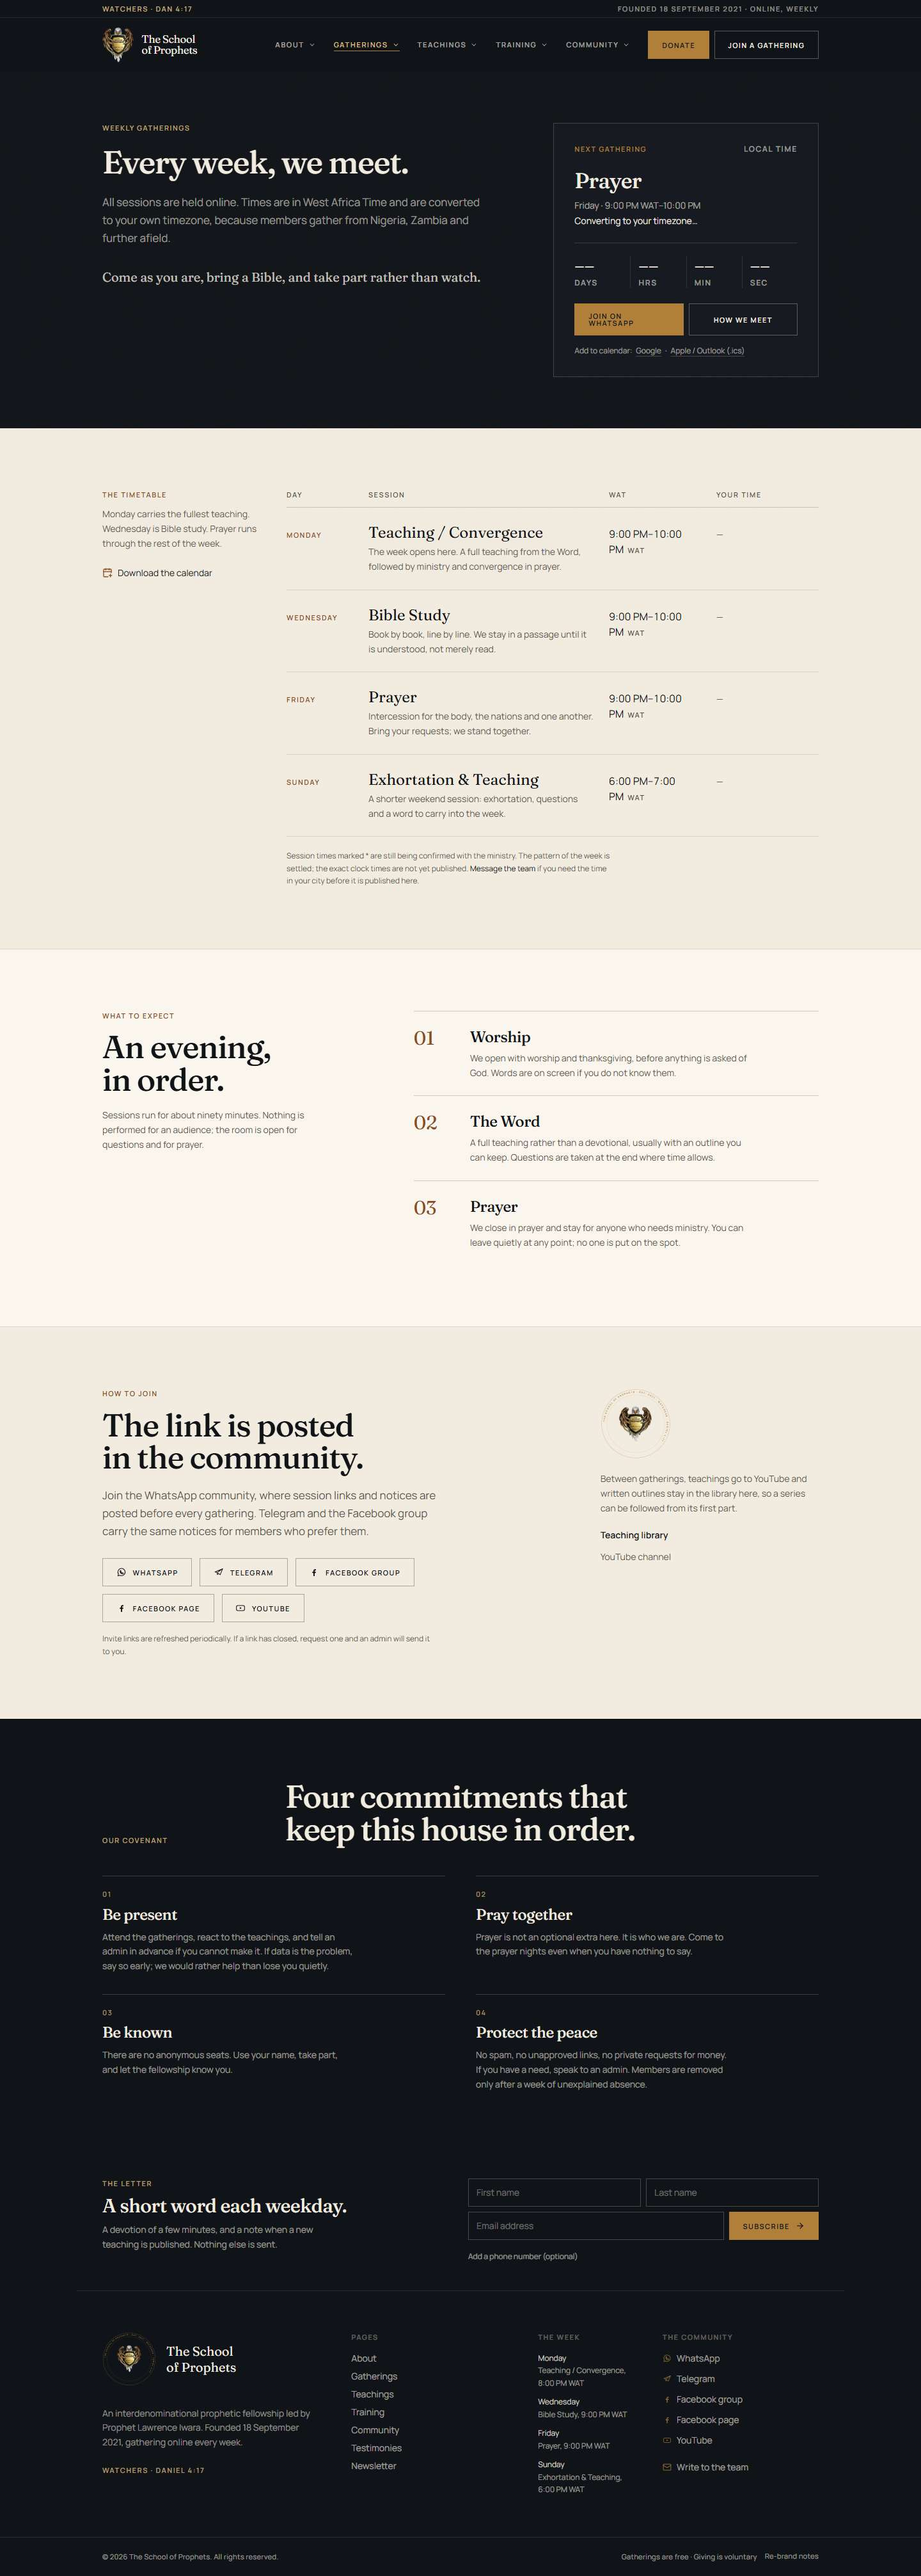
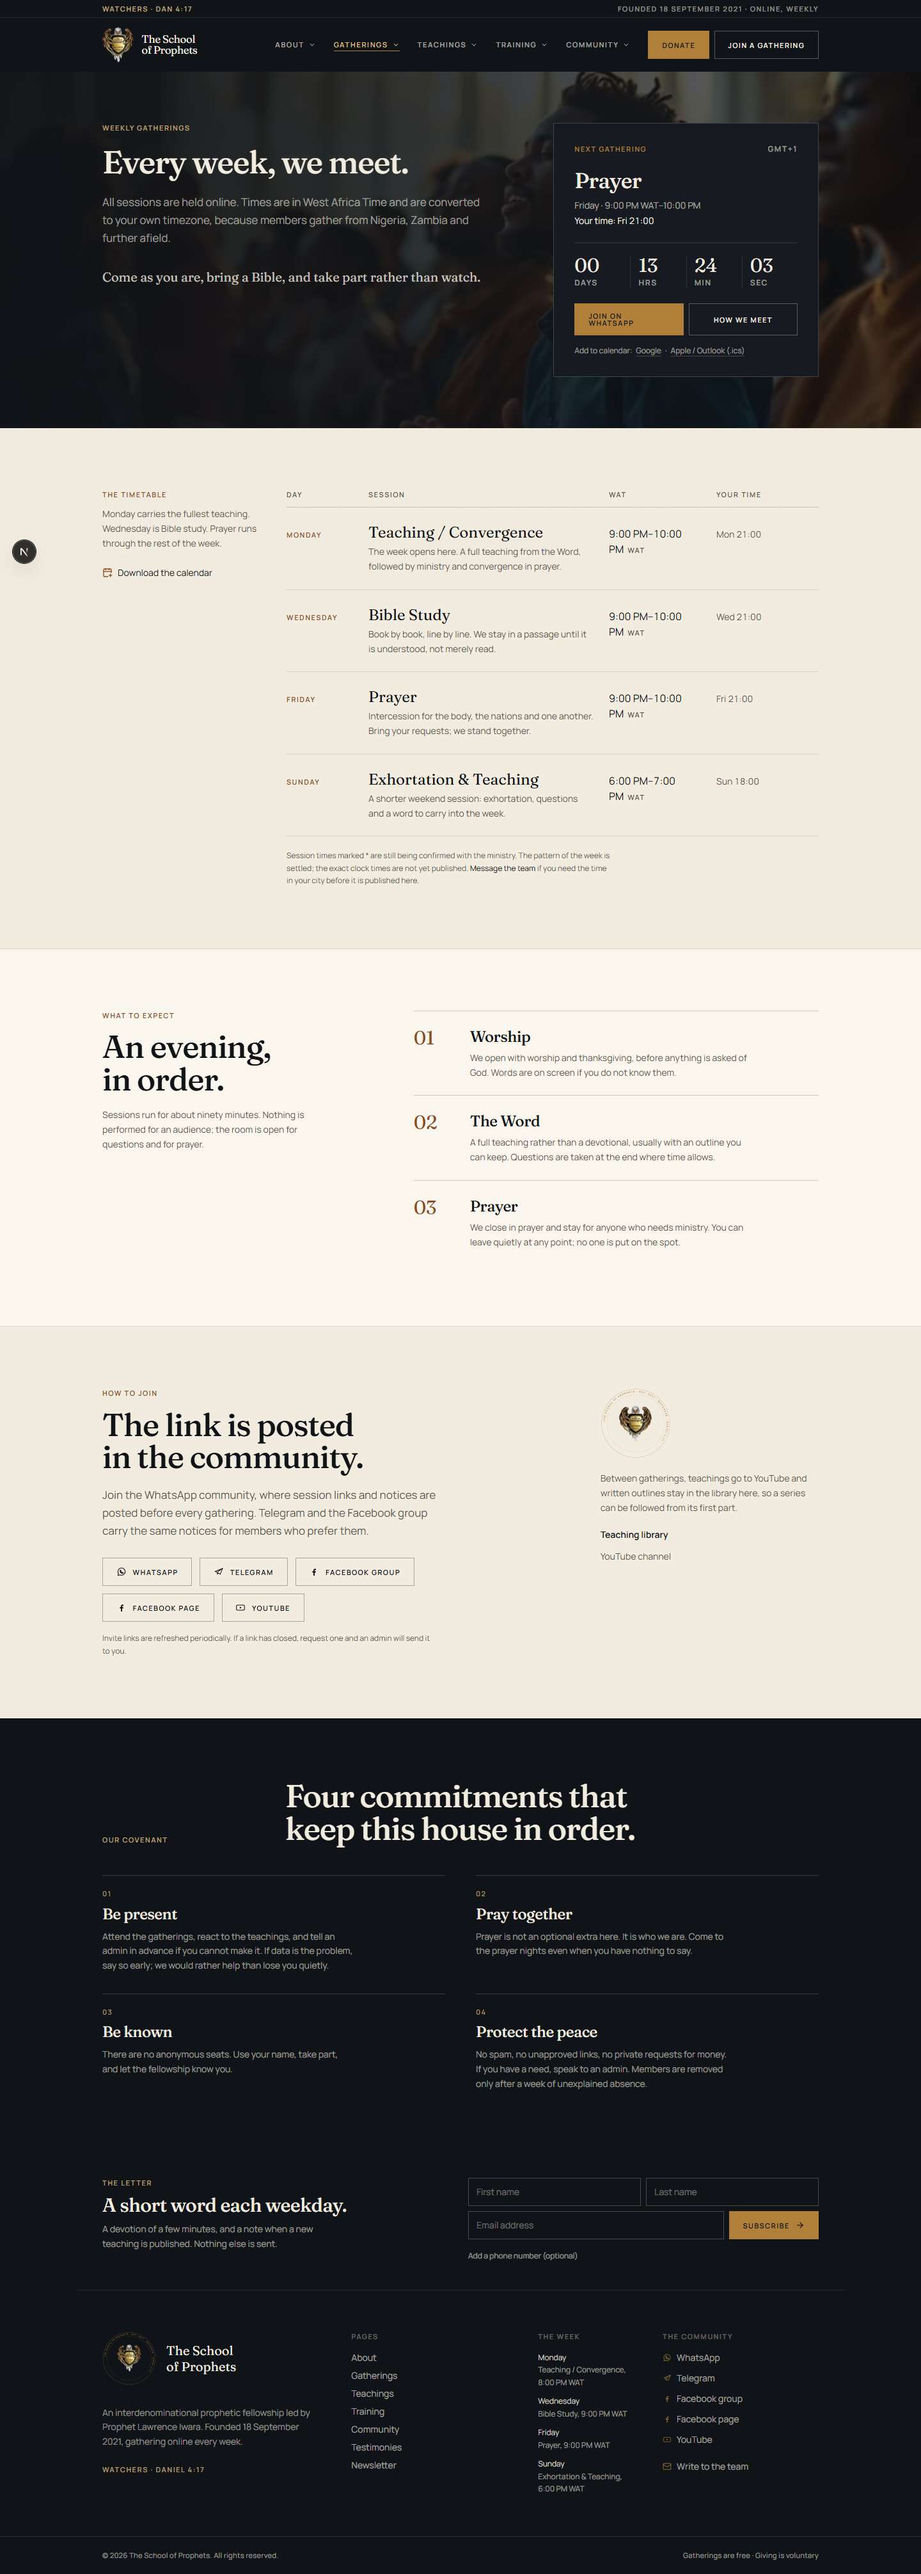
Open the home page on the gathering itself
The hero now uses the ministry's own photograph of the gathering as a
full-bleed background, with the NextGathering card back over it and the
fellowship's one-sentence account restored beneath the headline. The
gatherings page opens on the same room, /about gains one wide plate
before its long read, and the systems heading and teaching-card arrow
were tidied.

🤖 Generated with Codebuff

diff --git a/src/app/page.tsx b/src/app/page.tsx
@@ -82,13 +82,25 @@ export default async function HomePage() {
 
   return (
     <>
-      {/* Hero: the worshipping house, shown plainly beside the invitation */}
+      {/* Hero: the gathering itself, behind the invitation */}
       <section className="relative isolate overflow-hidden bg-ink text-parchment">
-        <div className="wrap relative grid gap-10 pb-16 pt-10 md:pb-20 md:pt-16 lg:grid-cols-12 lg:items-center lg:gap-12">
-          <div className="order-2 lg:order-1 lg:col-span-6">
-            <p className="label text-gold-soft/85">
-              Interdenominational · Founded {site.founded}
-            </p>
+        <Image
+          src="/images/fellowship-gathering.webp"
+          alt="Members of the fellowship standing together in worship, hands lifted and faces turned upward"
+          fill
+          priority
+          sizes="100vw"
+          className="object-cover object-[52%_38%]"
+        />
+        <div aria-hidden="true" className="absolute inset-0 bg-ink/72 md:bg-ink/40" />
+        <div
+          aria-hidden="true"
+          className="absolute inset-0 hidden bg-gradient-to-r from-ink via-ink/78 to-ink/5 md:block"
+        />
+
+        <div className="wrap relative grid gap-10 pb-16 pt-14 md:pb-24 md:pt-20 lg:grid-cols-12">
+          <div className="lg:col-span-7">
+            <p className="label text-gold-soft/90">The fellowship</p>
 
             <h1 className="mt-6 max-w-[13ch] font-display text-display text-parchment">
               A community
@@ -96,8 +108,10 @@ export default async function HomePage() {
               of the <em className="italic text-gold-soft">called</em>.
             </h1>
 
-            <p className="mt-6 max-w-[34ch] font-display text-lead leading-snug text-parchment/75">
-              Planted in the word. Moved by the Spirit. Built on prayer.
+            <p className="mt-7 max-w-[46ch] text-lead leading-relaxed text-parchment/85">
+              The School of Prophets is an interdenominational prophetic fellowship
+              led by {site.leader}, gathering online every week from Nigeria, Zambia
+              and beyond.
             </p>
 
             <div className="mt-8 flex flex-wrap items-center gap-x-7 gap-y-4">
@@ -115,39 +129,19 @@ export default async function HomePage() {
 
             <div className="mt-10 max-w-md">
               <NextGathering sessions={schedule} joinHref={contact.whatsapp || undefined} />
-              <p className="mt-3 text-xs leading-relaxed text-parchment/60">
-                Led by {site.leader}. Every session is online, and times are shown
-                in your own timezone.
+              <p className="mt-3 text-xs leading-relaxed text-parchment/70">
+                Every session is online, and times are shown in your own timezone.
               </p>
             </div>
           </div>
-
-          <div className="order-1 lg:order-2 lg:col-span-5 lg:col-start-8">
-            <figure className="relative">
-              <div className="relative aspect-[4/3] overflow-hidden border border-parchment/15 bg-ink-2 sm:aspect-[16/9] lg:aspect-[4/5]">
-                <Image
-                  src="/images/worship-hands.webp"
-                  alt="A worshipper standing with hands lifted in prayer"
-                  fill
-                  priority
-                  sizes="(max-width: 1024px) 100vw, 40vw"
-                  className="object-cover object-[50%_32%]"
-                />
-              </div>
-              <figcaption className="mt-3 flex items-baseline justify-between gap-4 text-[0.68rem] uppercase tracking-[0.13em] text-parchment/60">
-                <span>Worship, word and prayer</span>
-                <span className="text-gold-soft/80">Every week, online</span>
-              </figcaption>
-            </figure>
-          </div>
         </div>
 
-        <div className="relative border-t border-parchment/10">
-          <div className="wrap flex flex-wrap gap-x-10 gap-y-2 py-4 text-[0.7rem] uppercase tracking-[0.14em] text-parchment/60">
+        <div className="relative border-t border-parchment/15 bg-ink/45">
+          <div className="wrap flex flex-wrap gap-x-10 gap-y-2 py-4 text-[0.7rem] uppercase tracking-[0.14em] text-parchment/70">
             <span>Founded {site.founded}</span>
-            <span aria-hidden="true" className="text-parchment/20">/</span>
+            <span aria-hidden="true" className="text-parchment/25">/</span>
             <span>Interdenominational</span>
-            <span aria-hidden="true" className="text-parchment/20">/</span>
+            <span aria-hidden="true" className="text-parchment/25">/</span>
             <span>Online, weekly</span>
           </div>
         </div>
@@ -271,12 +265,12 @@ export default async function HomePage() {
         </section>
       )}
 
-      {/* Three systems as typography, not cards */}
+      {/* Three systems: one photograph each */}
       {show.systems && (
         <section className="wrap py-20 md:py-28">
-          <div className="grid gap-6 md:grid-cols-12 md:items-end">
-            <p className="label text-ember md:col-span-3">The three systems</p>
-            <h2 className="font-display text-hero md:col-span-9">
+          <div>
+            <p className="label text-ember">The three systems</p>
+            <h2 className="mt-4 max-w-[24ch] font-display text-hero">
               Everything here rests on three things.
             </h2>
           </div>

diff --git a/src/app/gatherings/page.tsx b/src/app/gatherings/page.tsx
@@ -1,4 +1,5 @@
 import type { Metadata } from "next";
+import Image from "next/image";
 import Link from "next/link";
 import { CalendarPlus } from "lucide-react";
 import { NextGathering } from "@/components/NextGathering";
@@ -34,8 +35,21 @@ export default async function GatheringsPage() {
 
   return (
     <>
-      <header className="bg-ink text-parchment">
-        <div className="wrap grid gap-12 py-14 md:grid-cols-12 md:py-20">
+      <header className="relative isolate overflow-hidden bg-ink text-parchment">
+        <Image
+          src="/images/fellowship-gathering.webp"
+          alt=""
+          fill
+          priority
+          sizes="100vw"
+          className="object-cover object-[62%_40%]"
+        />
+        <div aria-hidden="true" className="absolute inset-0 bg-ink/76 md:bg-ink/55" />
+        <div
+          aria-hidden="true"
+          className="absolute inset-0 hidden bg-gradient-to-r from-ink/95 via-ink/65 to-ink/10 md:block"
+        />
+        <div className="wrap relative grid gap-12 py-14 md:grid-cols-12 md:py-20">
           <div className="md:col-span-7">
             <p className="label text-gold-soft/85">Weekly gatherings</p>
             <h1 className="mt-5 font-display text-hero">Every week, we meet.</h1>

diff --git a/src/app/about/page.tsx b/src/app/about/page.tsx
@@ -76,6 +76,23 @@ export default function AboutPage() {
         </div>
       </header>
 
+      {/* The road here: one photograph, wide and quiet, before the long read. */}
+      <figure className="wrap pt-10 md:pt-14">
+        <div className="relative aspect-[4/3] overflow-hidden bg-ink-2 sm:aspect-[1250/560]">
+          <Image
+            src="/images/desert-village.webp"
+            alt="A traveller resting on a hillside above a desert village at dusk"
+            fill
+            sizes="(max-width: 1200px) 100vw, 1200px"
+            className="object-cover object-[40%_45%]"
+          />
+        </div>
+        <figcaption className="figure-caption mt-3 flex flex-wrap items-baseline justify-between gap-x-6 gap-y-1">
+          <span>From one small online gathering to a fellowship across three countries</span>
+          <span className="text-ember">Since {site.founded}</span>
+        </figcaption>
+      </figure>
+
       {/* The story, set as a long read with margin notes. */}
       <section className="wrap grid gap-12 py-16 md:grid-cols-12 md:gap-8 md:py-24">
         <div className="md:col-span-3">

diff --git a/src/components/TeachingCard.tsx b/src/components/TeachingCard.tsx
@@ -79,7 +79,8 @@ export function TeachingCard({
         </p>
       </div>
 
-      <div className="md:col-span-1 md:text-right">
+      {/* On phones the title is the link; a lone arrow under the entry reads as debris. */}
+      <div className="hidden md:col-span-1 md:block md:text-right">
         <Link
           href={`/teachings/${teaching.slug}`}
           aria-label={`Read ${teaching.title}`}

diff --git a/docs/DECISIONS.md b/docs/DECISIONS.md
@@ -41,7 +41,14 @@ put to the client; each decision is reversible.
 15. **`docs/qa/before` is generated from commit `cdb38cd`**, the state before
     this pass, by checking out `src/` at that commit, capturing, and restoring.
 16. **Home imagery is about the fellowship, not the wilderness.** The hero shows
-    a worshipper with hands lifted, beside the type rather than behind it, so the
-    picture is seen and the countdown card no longer covers it. The fellowship
-    section leads with a gathered house at prayer, with the watchword moved to a
-    full-width band; the three systems each carry one photograph. Nothing but the layout and the chosen photographs changed.
+    the gathered house, not a lone figure; the fellowship section leads with a
+    congregation at prayer, with the watchword moved to a full-width band; the
+    three systems each carry one photograph. Nothing but the layout and the
+    chosen photographs changed.
+17. **The hero photograph is the ministry's own, used full-bleed.** Their
+    photograph of the gathering is the hero background, held readable by a dark
+    scrim that thins to the right so faces stay visible, and the NextGathering
+    card stays in the column where it was. The same photograph heads
+    `/gatherings`, so the two pages open on the same room. `/about` gained one
+    wide plate (cropped from the uncut file to drop the generated-image
+    watermark) between its header and the long read. No other page was rebuilt.
